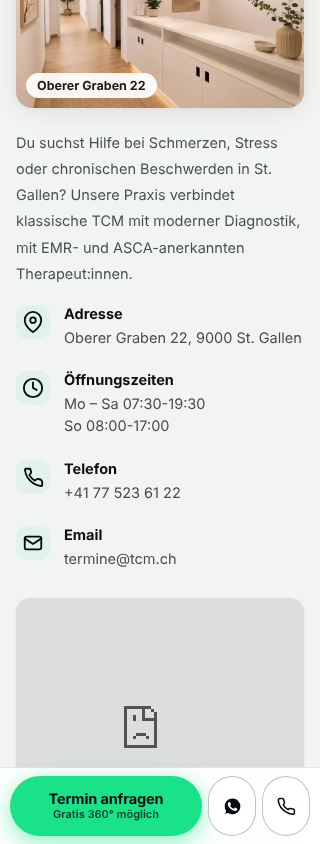
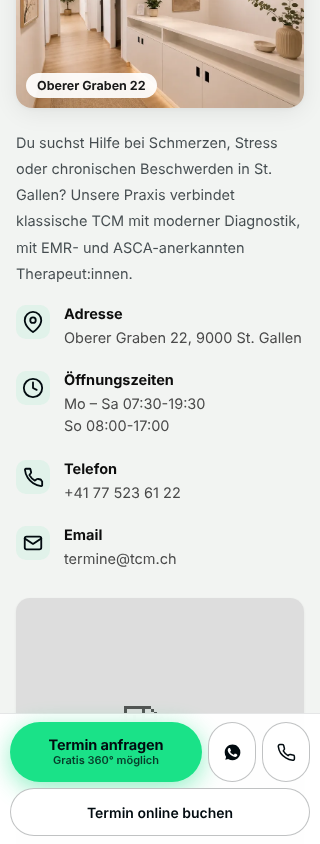
fix(sg): OneDoc-Zeile in Sticky-Bar zurück, 360°-Check-in-Wortlaut nur für St. Gallen
- StickyCtaBar: reguläre SG-Bar wieder mit «Termin online buchen» (OneDoc, #online-buchen) unter Primär-CTA «Termin anfragen · Auch als Gratis 360°-Check» + WhatsApp/Telefon; Body-Reserve 132px, 320/375/390 ohne Abschneiden
- kontakt-form.ts: 360°-Wortlaut (CHECKIN_SG) fest nur auf SG-Formularen; globale Formulare (Home, /kontakt/, andere Standorte) behalten «Kostenloser TCM-Check-in · 30 Minuten», tragen data-kf-sg-* Attribute
- kontakt-form.js: Kachel wechselt clientseitig auf 360°-Wortlaut nur bei gewähltem Standort St. Gallen; TCM_CHECKIN/Backend unverändert
- Gates/Tests angepasst (OFFER_GLOBAL, 4 Bar-Ziele, Wortlaut-Wechsel Home), Screenshot-Crop via sharp, Doku-Notiz
- Kampagne bleibt deaktiviert (offerActive: false)

Claude-Session: https://claude.ai/code/session_011amkbCeuQvxP9Cjup4QNPh

Changed region(s): [[0.0, 0.8318, 0.9688, 1.0], [0.8438, 0.9858, 0.875, 1.0], [0.75, 0.9858, 0.7812, 1.0]]

diff --git a/src/lib/kontakt-form.ts b/src/lib/kontakt-form.ts
@@ -74,8 +74,10 @@ const telHref = (t: string) => 'tel:' + t.replace(/[^\d+]/g, '');
 export const ZENTRAL_TEL = fmtTel(site.whatsapp);
 
 export const clinicById = (id: string) => clinics.find((c) => c.id === id);
-/** Patientenwortlaut (Kacheltitel) des kostenlosen 30-Minuten-Check-ins; Backend-Label/Klassifikation bleibt TERMINARTEN.checkin.label. */
-export const CHECKIN_TITEL = 'Kostenloser TCM 360°-Check-in';
+/** Patientenwortlaut des kostenlosen 30-Minuten-Check-ins für St. Gallen (TCM-360°-Vorteile im regulären Check-in, 21.10.2026).
+ *  Backend-Label/Klassifikation bleibt TERMINARTEN.checkin.label; andere Flächen behalten den bisherigen Wortlaut. */
+export const CHECKIN_SG = { t: 'Kostenloser TCM 360°-Check-in', dur: `${TERMINARTEN.checkin.dauerMin} Minuten · CHF 0.–`, d: 'Persönlicher TCM-Kurzcheck mit Zungen- und Pulsdiagnostik, Zeit für deine Fragen und Krankenkassen-Check.', note: 'Ohne Behandlung. Unverbindlich.' } as const;
+export const CHECKIN_TITEL = CHECKIN_SG.t;
 export const checkinFreigegeben = (id?: string) => !!id && Object.prototype.hasOwnProperty.call(CHECKIN_FREIGABE, id);
 const onedocFor = (id?: string) => (id && (ONEDOC as Record<string, { href: string; anchor: string; direkt?: { checkin: string | null; behandlung: string | null } }>)[id]) || null;
 
@@ -109,6 +111,9 @@ export function renderKontaktForm(o: KontaktFormOpts): string {
   const checkinOk = fixed ? checkinFreigegeben(fixed.id) : true; // global: Kachel sichtbar, Wahl an Freigabe gebunden
   const onlyBehandlung = !!fixed && !checkinOk;
   const HB = o.herbst;
+  // St.-Galler Wortlaut des kostenlosen Check-ins (Konsolidierung TCM 360°, 21.10.2026): nur für den festen Standort St. Gallen;
+  // globale Formulare zeigen den bisherigen Wortlaut und wechseln clientseitig (kontakt-form.js), sobald St. Gallen gewählt ist.
+  const SG360 = fixed?.id === 'st-gallen';
   if (HB && (!fixed || !checkinOk)) throw new Error('kontakt-form: herbst nur mit festem, Check-in-freigegebenem Standort');
   const pre = onlyBehandlung ? 'behandlung' : HB ? (HB.soldOut ? 'behandlung' : 'checkin') : o.terminart;
   const fixedTel = fixed ? fixed.phone : ZENTRAL_TEL;
@@ -132,14 +137,16 @@ export function renderKontaktForm(o: KontaktFormOpts): string {
     (HB.soldOut ? `<span class="kf-opt-dur">${TERMINARTEN.checkin.dauerMin} Minuten · CHF 0.– · nach Verfügbarkeit</span><span class="kf-opt-d">Persönlicher TCM-Kurzcheck mit Zungen- und Pulsdiagnostik, Zeit für deine Fragen und Krankenkassen-Check.</span>`
       : `<span class="kf-opt-dur">CHF 0.–${HB.dauerText ? ' · ' + esc(HB.dauerText) : ''}</span><span class="kf-opt-d">${esc(HB.copy.tileCheckinD)}</span>`) +
     `<span class="kf-opt-note">Ohne Behandlung, ohne Verpflichtung.</span></span></label>` :
-    `<label class="kf-opt kf-opt--checkin" for="${p}-ta-checkin">` +
+    `<label class="kf-opt kf-opt--checkin" for="${p}-ta-checkin"${!fixed ? ` data-kf-sg-t="${esc(CHECKIN_SG.t)}" data-kf-sg-dur="${esc(CHECKIN_SG.dur)}" data-kf-sg-d="${esc(CHECKIN_SG.d)}" data-kf-sg-note="${esc(CHECKIN_SG.note)}"` : ''}>` +
     `<input class="kf-radio" type="radio" name="terminart" id="${p}-ta-checkin" value="checkin"${pre === 'checkin' ? ' checked' : ''} data-kf-angebot="${TERMINARTEN.checkin.id}">` +
     `<span class="kf-opt-body">` +
     // Patientenwortlaut des kostenlosen Check-ins (Konsolidierung 21.10.2026: 360°-Vorteile im regulären 30-Minuten-Check-in);
     // Klassifikation, Angebots-ID TCM_CHECKIN, Dauer, Mail-Label (TERMINARTEN.checkin.label) und Versand unverändert.
-    (Q ? `<span class="kf-opt-t">${CHECKIN_TITEL}</span><span class="kf-opt-dur">${TERMINARTEN.checkin.dauerMin} Minuten · CHF 0.–</span>` +
-      `<span class="kf-opt-d">Persönlicher TCM-Kurzcheck mit Zungen- und Pulsdiagnostik, Zeit für deine Fragen und Krankenkassen-Check.</span>` +
-      `<span class="kf-opt-note">Ohne Behandlung. Unverbindlich.</span>`
+    (Q ? (SG360
+      ? `<span class="kf-opt-t">${CHECKIN_SG.t}</span><span class="kf-opt-dur">${CHECKIN_SG.dur}</span><span class="kf-opt-d">${CHECKIN_SG.d}</span><span class="kf-opt-note">${CHECKIN_SG.note}</span>`
+      : `<span class="kf-opt-t">${TERMINARTEN.checkin.label}</span><span class="kf-opt-dur">${TERMINARTEN.checkin.dauerMin} Minuten</span>` +
+        `<span class="kf-opt-d">Zungen- und Pulsdiagnostik, persönliche Empfehlung und Krankenkassen-Check.</span>` +
+        `<span class="kf-opt-note">Ohne Behandlung.</span>`)
     : `<span class="kf-tag">${GIFT}<span>Kostenloser TCM-Check-in</span></span>` +
       (K ? `<span class="kf-opt-h">Finde heraus, ob TCM zu dir passt.</span><span class="kf-opt-d">30 Minuten persönliche TCM-Anamnese und Diagnostik.</span>`
          : `<span class="kf-opt-h">Dein Anliegen verstehen. Deinen nächsten Schritt finden.</span><span class="kf-opt-d">30 Minuten für eine persönliche TCM-Anamnese und Diagnostik.</span>`) +

diff --git a/public/kontakt-form.js b/public/kontakt-form.js
@@ -103,6 +103,16 @@
         rCheckin.disabled = !ok; var tile = rCheckin.closest('.kf-opt'); if (tile) tile.classList.toggle('is-disabled', !ok);
         // Ruhig: nicht freigegebene Ziele zeigen die Check-in-Kachel gar nicht (keine Gratis-Diagnostik suggerieren).
         if (tile && ruhig) tile.hidden = !ok;
+        // St. Gallen gewählt → St.-Galler Wortlaut (TCM 360°-Check-in); sonst bisheriger Wortlaut. Klassifikation unverändert.
+        if (tile && tile.hasAttribute('data-kf-sg-t')) {
+          var sgSel = !!(o && o.getAttribute('data-id') === 'st-gallen');
+          ['t', 'dur', 'd', 'note'].forEach(function (k) {
+            var el = tile.querySelector('.kf-opt-' + k); if (!el) return;
+            if (!el.hasAttribute('data-kf-std')) el.setAttribute('data-kf-std', el.textContent);
+            var want = sgSel ? tile.getAttribute('data-kf-sg-' + k) : el.getAttribute('data-kf-std');
+            if (el.textContent !== want) el.textContent = want;
+          });
+        }
         if (scopeNote) scopeNote.hidden = ok || !o || nonTreat;
         if (!ok && rCheckin.checked) { rCheckin.checked = false; return sync(); }
       }

diff --git a/docs/cro/10-tcm360-entdeckertage-sg.md b/docs/cro/10-tcm360-entdeckertage-sg.md
@@ -7,7 +7,7 @@ Erste Runde: **22.–31.10.2026**. Der reguläre kostenlose TCM-Check-in (30 Min
 
 ## 0. Status 21.10.2026 (abends): KAMPAGNE DEAKTIVIERT – konsolidiert in den regulären Check-in
 
-Inhaber-Entscheid: **ein** Gratis-Angebot statt zwei. `offerActive: false` (kein Banner, kein Sheet/Modal, keine Kampagnen-Sticky, keine Rundenzeile). Die 360°-Vorteile stehen jetzt im regulären kostenlosen 30-Minuten-Check-in aller Kontaktformulare (Kacheltitel «Kostenloser TCM 360°-Check-in · 30 Minuten · CHF 0.–», `src/lib/kontakt-form.ts` → `CHECKIN_TITEL`); Angebots-ID `TCM_CHECKIN`, Dauer, Mail-Klassifikation («Kostenloser TCM-Check-in · 30 Min.»), `Hero-Termin-StGallen`, `launch-hero-sg`, `formular_senden` und alle Klick-Events unverändert. Kampagnen-Kennungen, Server-Whitelist `KAMPAGNEN` und `tcm360-runden.json` bleiben für historische Anfragen und Attribution bestehen (keine Löschung). Reaktivierung nur per neuem Inhaber-Entscheid (`offerActive: true`, Gate).
+Inhaber-Entscheid: **ein** Gratis-Angebot statt zwei. `offerActive: false` (kein Banner, kein Sheet/Modal, keine Kampagnen-Sticky, keine Rundenzeile). Die 360°-Vorteile stehen jetzt im regulären kostenlosen 30-Minuten-Check-in **nur für St. Gallen** (Kacheltitel «Kostenloser TCM 360°-Check-in · 30 Minuten · CHF 0.–», `src/lib/kontakt-form.ts` → `CHECKIN_SG`): fest auf den SG-Formularen (Hero/unten); Homepage, /kontakt/ und andere Standorte zeigen den bisherigen Wortlaut («Kostenloser TCM-Check-in · 30 Minuten») und wechseln clientseitig erst bei gewähltem Standort St. Gallen (`data-kf-sg-*`, `public/kontakt-form.js`). Reguläre SG-Sticky-Bar unverändert (Termin anfragen mit Unterzeile «Auch als Gratis 360°-Check», OneDoc «Termin online buchen», WhatsApp, Telefon); Angebots-ID `TCM_CHECKIN`, Dauer, Mail-Klassifikation («Kostenloser TCM-Check-in · 30 Min.»), `Hero-Termin-StGallen`, `launch-hero-sg`, `formular_senden` und alle Klick-Events unverändert. Kampagnen-Kennungen, Server-Whitelist `KAMPAGNEN` und `tcm360-runden.json` bleiben für historische Anfragen und Attribution bestehen (keine Löschung). Reaktivierung nur per neuem Inhaber-Entscheid (`offerActive: true`, Gate).
 
 ## 1. Status zuvor: AKTIV im Anfrage-Modus (Inhaber-Freigabe 21.10.2026, abgelöst)
 
